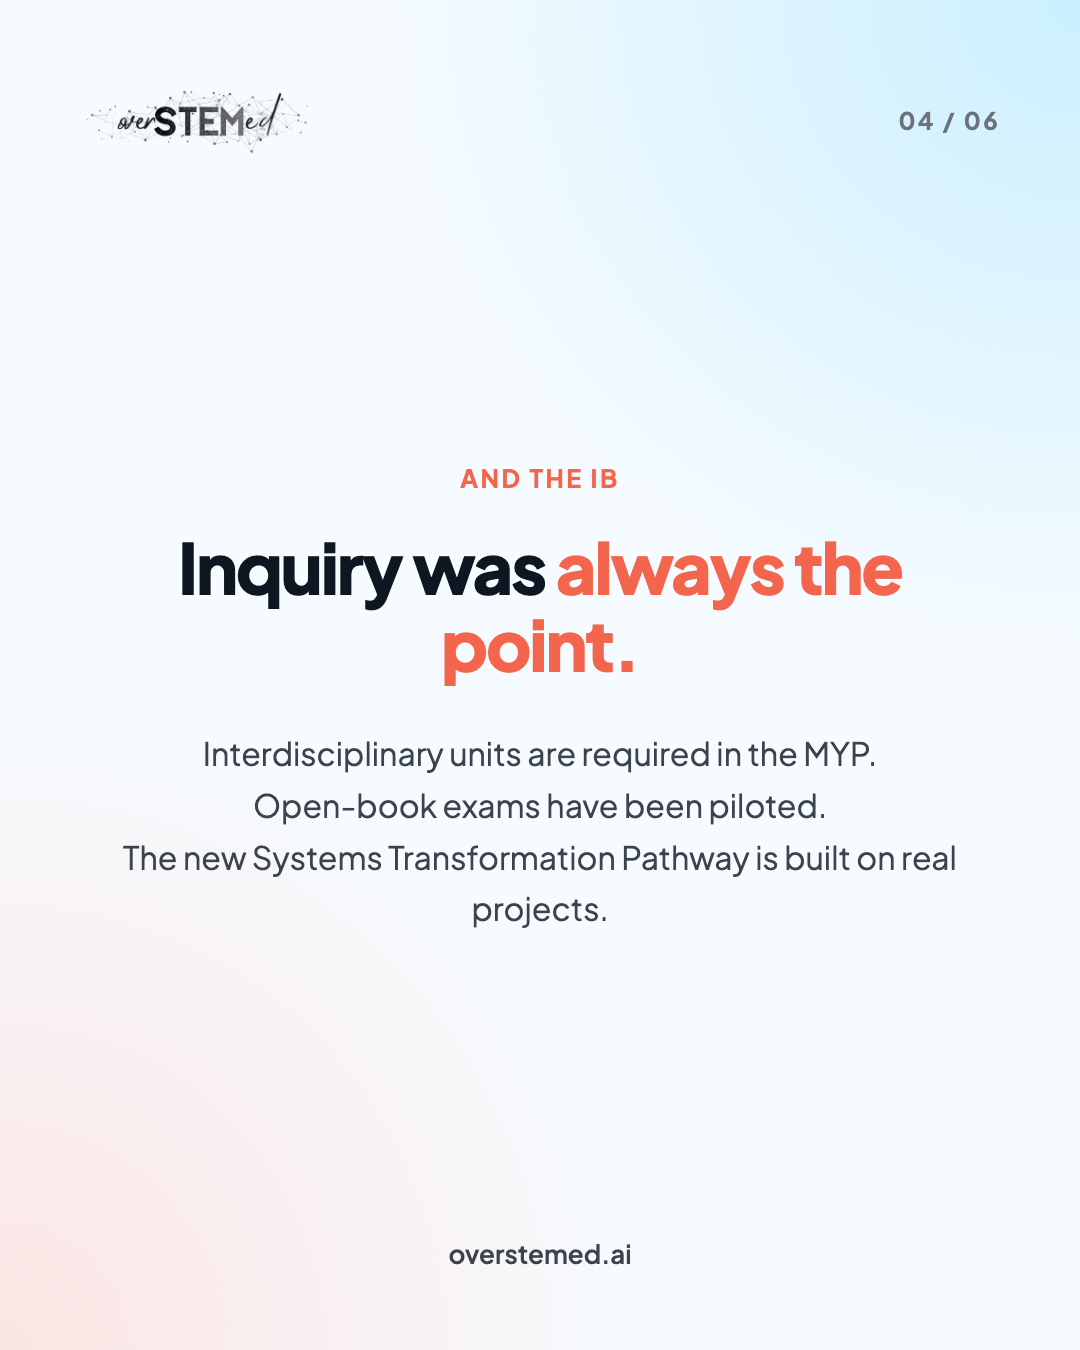
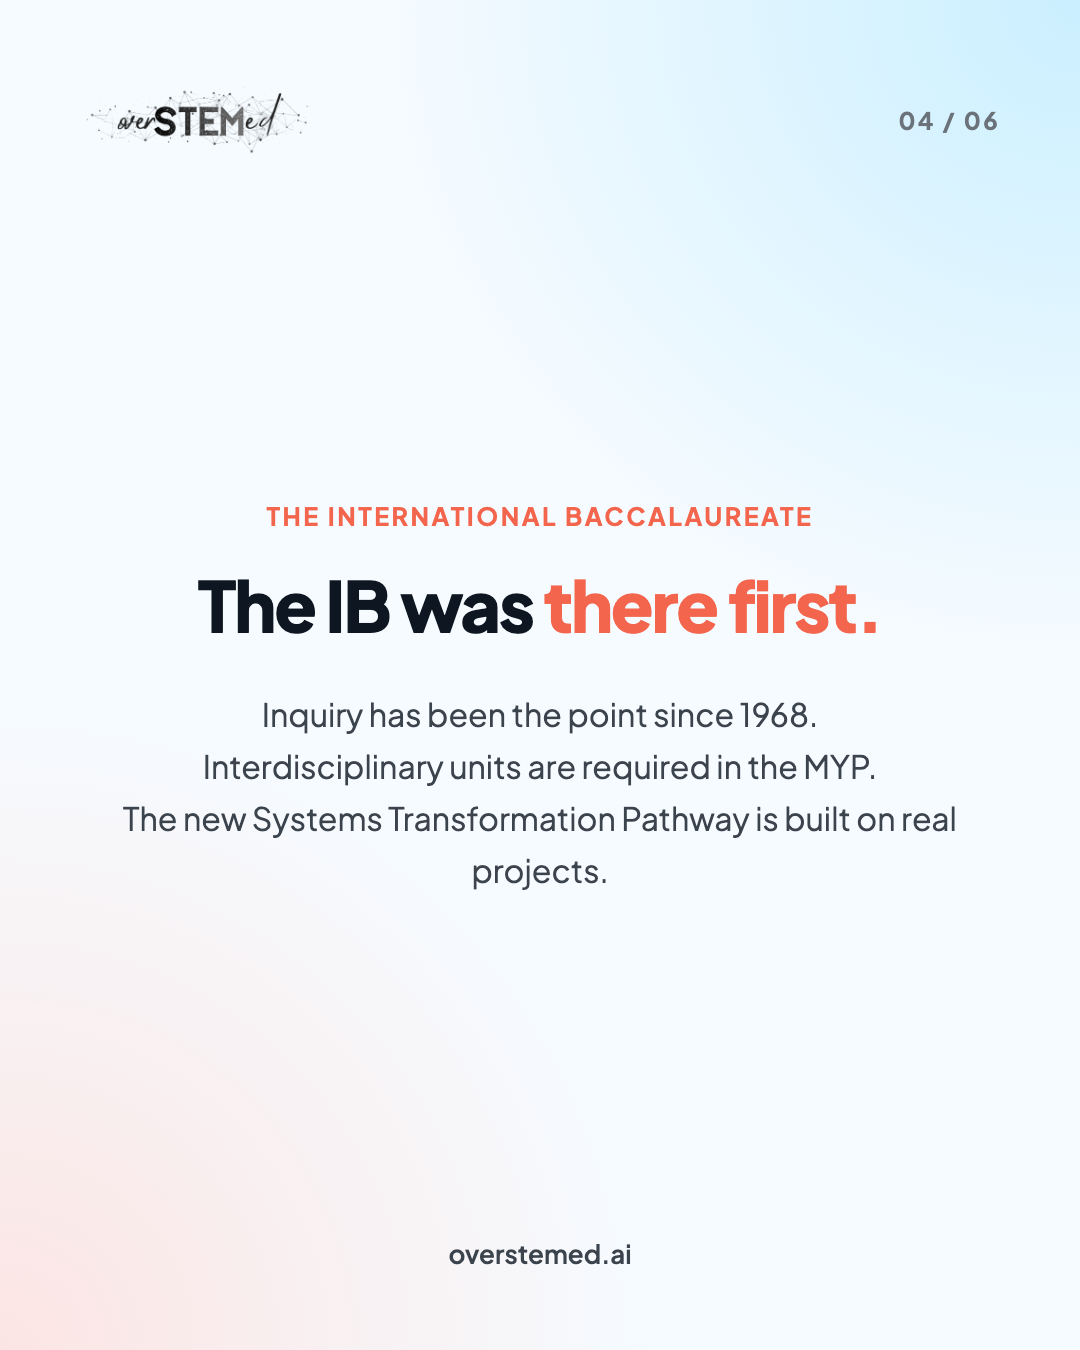
Give the IB its own standing on carousel slide 4
'And the IB' framed the world's biggest international programme as
an afterthought. Now: International Baccalaureate spelled out, and
'The IB was there first' with inquiry dated to 1968.

Changed region(s): [[0.1222, 0.3422, 0.8861, 0.6844]]

diff --git a/post-templates.html b/post-templates.html
@@ -699,9 +699,9 @@ a{color:oklch(0.68 0.18 32);text-decoration:none;} a:hover{color:oklch(0.55 0.16
             <span style="font-size:24px;font-weight:700;letter-spacing:0.1em;color:oklch(0.55 0.015 255);">04 / 06</span>
           </div>
           <div style="flex:1;display:flex;flex-direction:column;justify-content:center;align-items:center;text-align:center;">
-            <div style="font-size:25px;font-weight:700;letter-spacing:0.1em;text-transform:uppercase;color:oklch(0.68 0.18 32);margin-bottom:34px;">And the IB</div>
-            <div style="font-weight:800;font-size:70px;line-height:1.1;letter-spacing:-0.03em;max-width:900px;">Inquiry was <em style="font-style:normal;color:oklch(0.68 0.18 32);">always the point.</em></div>
-            <div style="margin-top:46px;font-size:32px;line-height:1.62;color:oklch(0.38 0.02 255);max-width:900px;">Interdisciplinary units are required in the MYP.<br>Open-book exams have been piloted.<br>The new Systems Transformation Pathway is built on real projects.</div>
+            <div style="font-size:25px;font-weight:700;letter-spacing:0.1em;text-transform:uppercase;color:oklch(0.68 0.18 32);margin-bottom:34px;">The International Baccalaureate</div>
+            <div style="font-weight:800;font-size:70px;line-height:1.1;letter-spacing:-0.03em;max-width:900px;">The IB was <em style="font-style:normal;color:oklch(0.68 0.18 32);">there first.</em></div>
+            <div style="margin-top:46px;font-size:32px;line-height:1.62;color:oklch(0.38 0.02 255);max-width:900px;">Inquiry has been the point since 1968.<br>Interdisciplinary units are required in the MYP.<br>The new Systems Transformation Pathway is built on real projects.</div>
             
           </div>
           <div style="text-align:center;font-size:26px;font-weight:600;color:oklch(0.38 0.02 255);">overstemed.ai</div>
